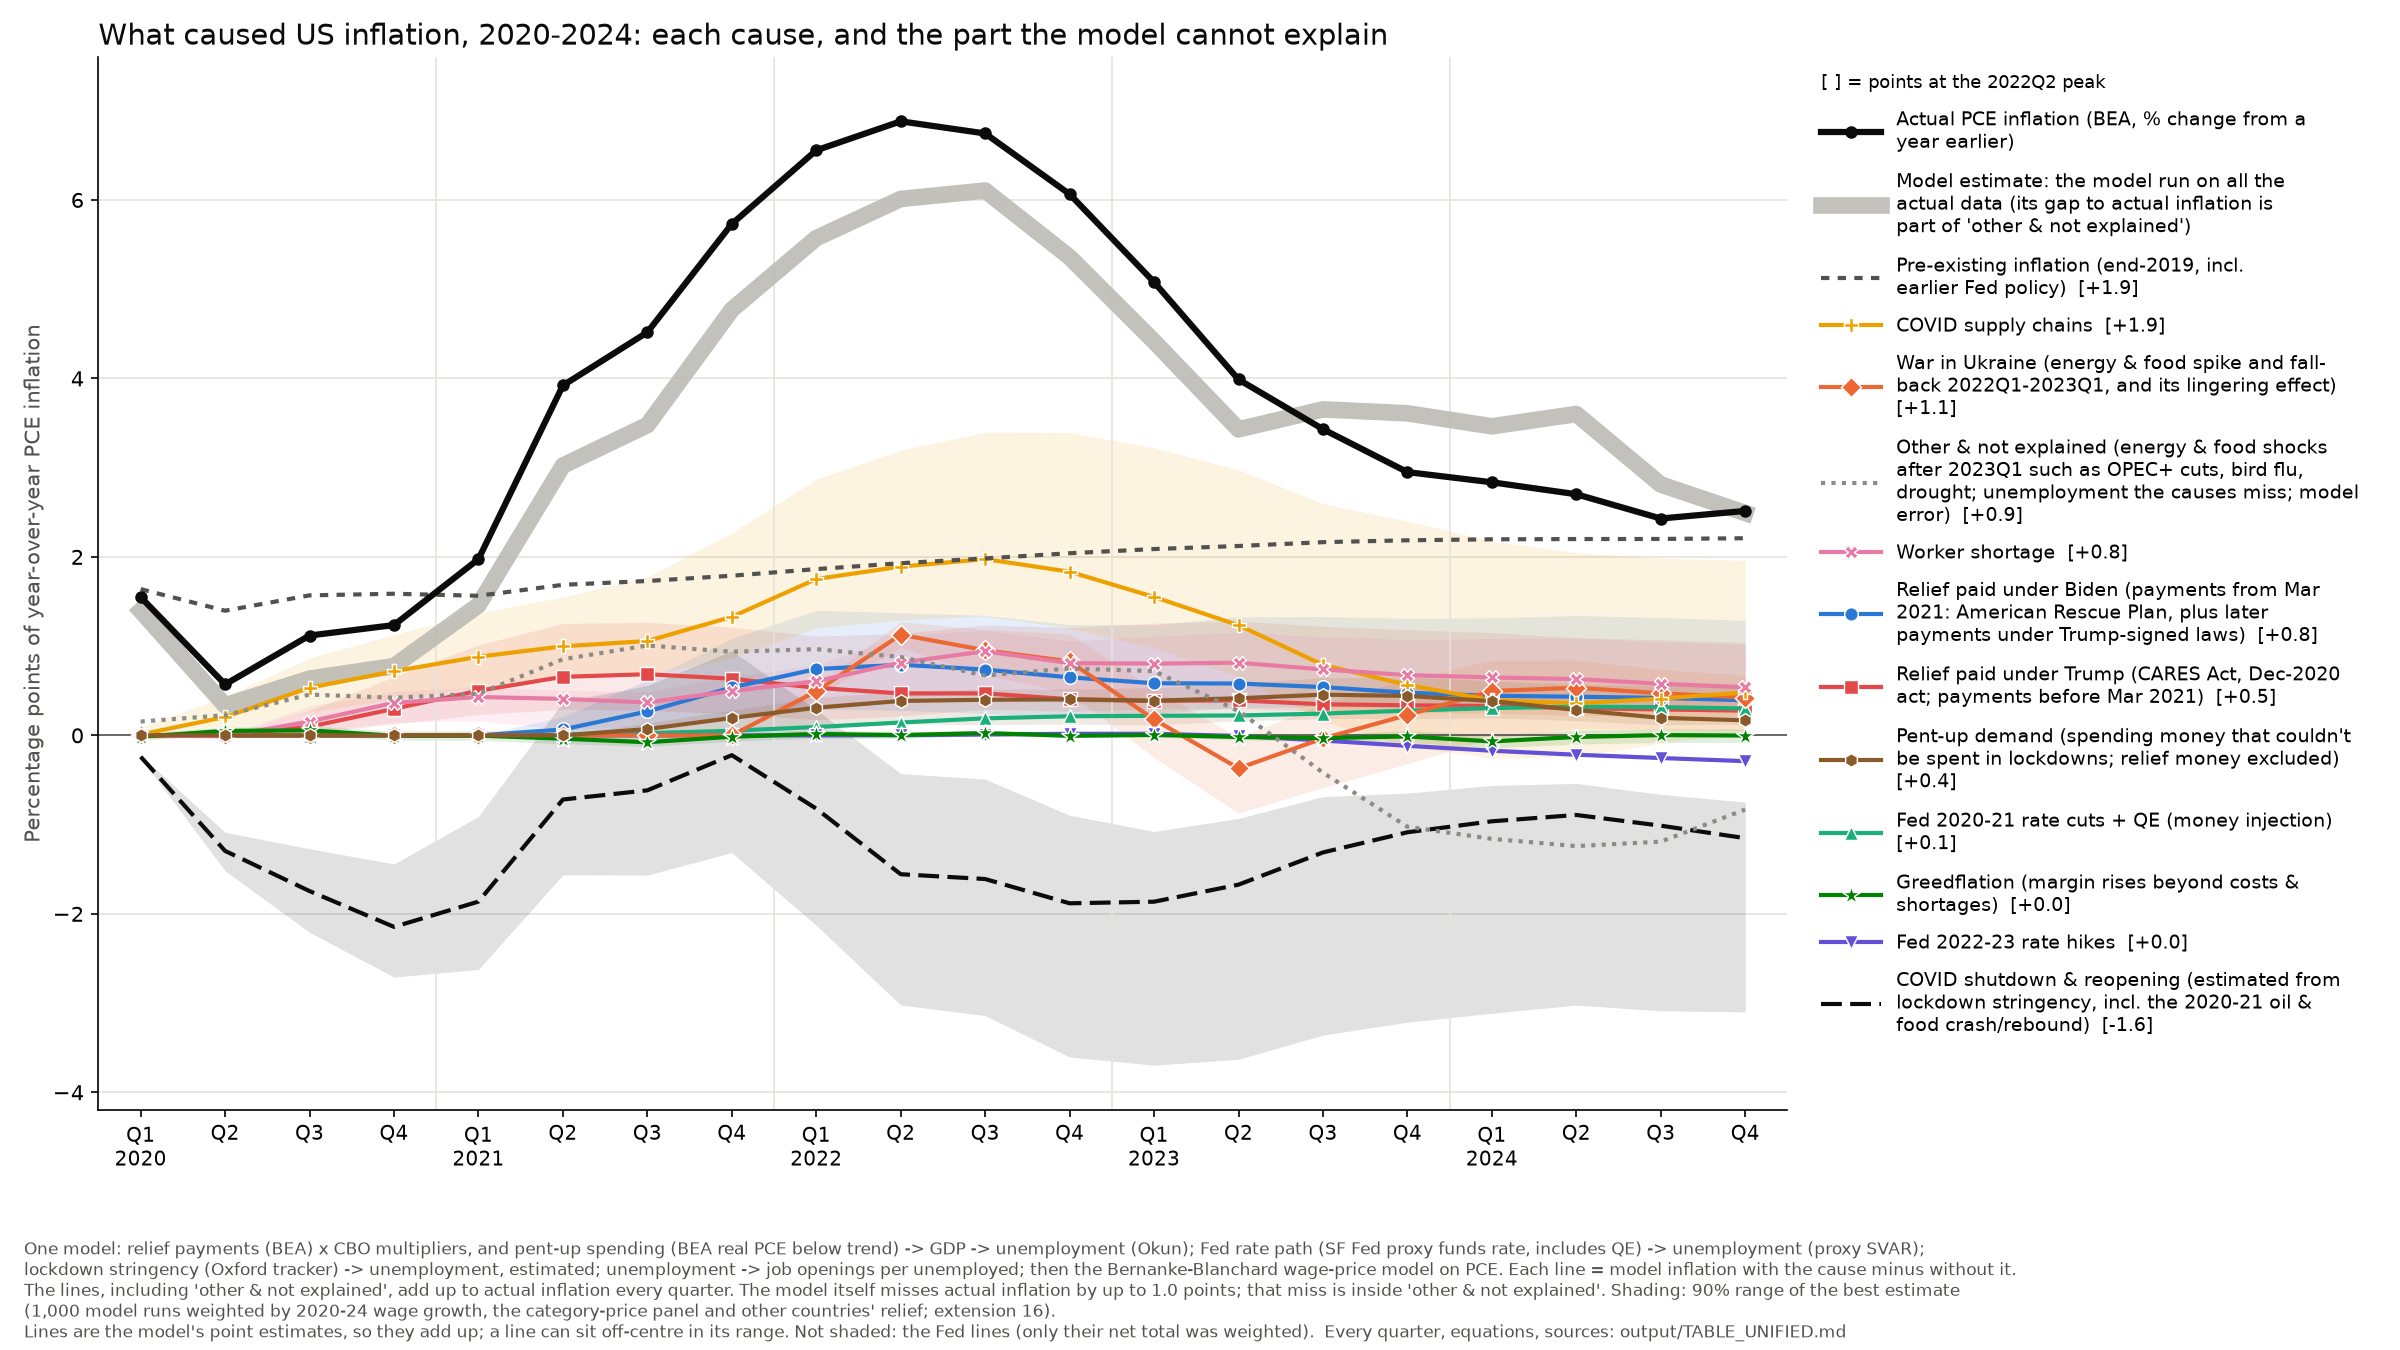
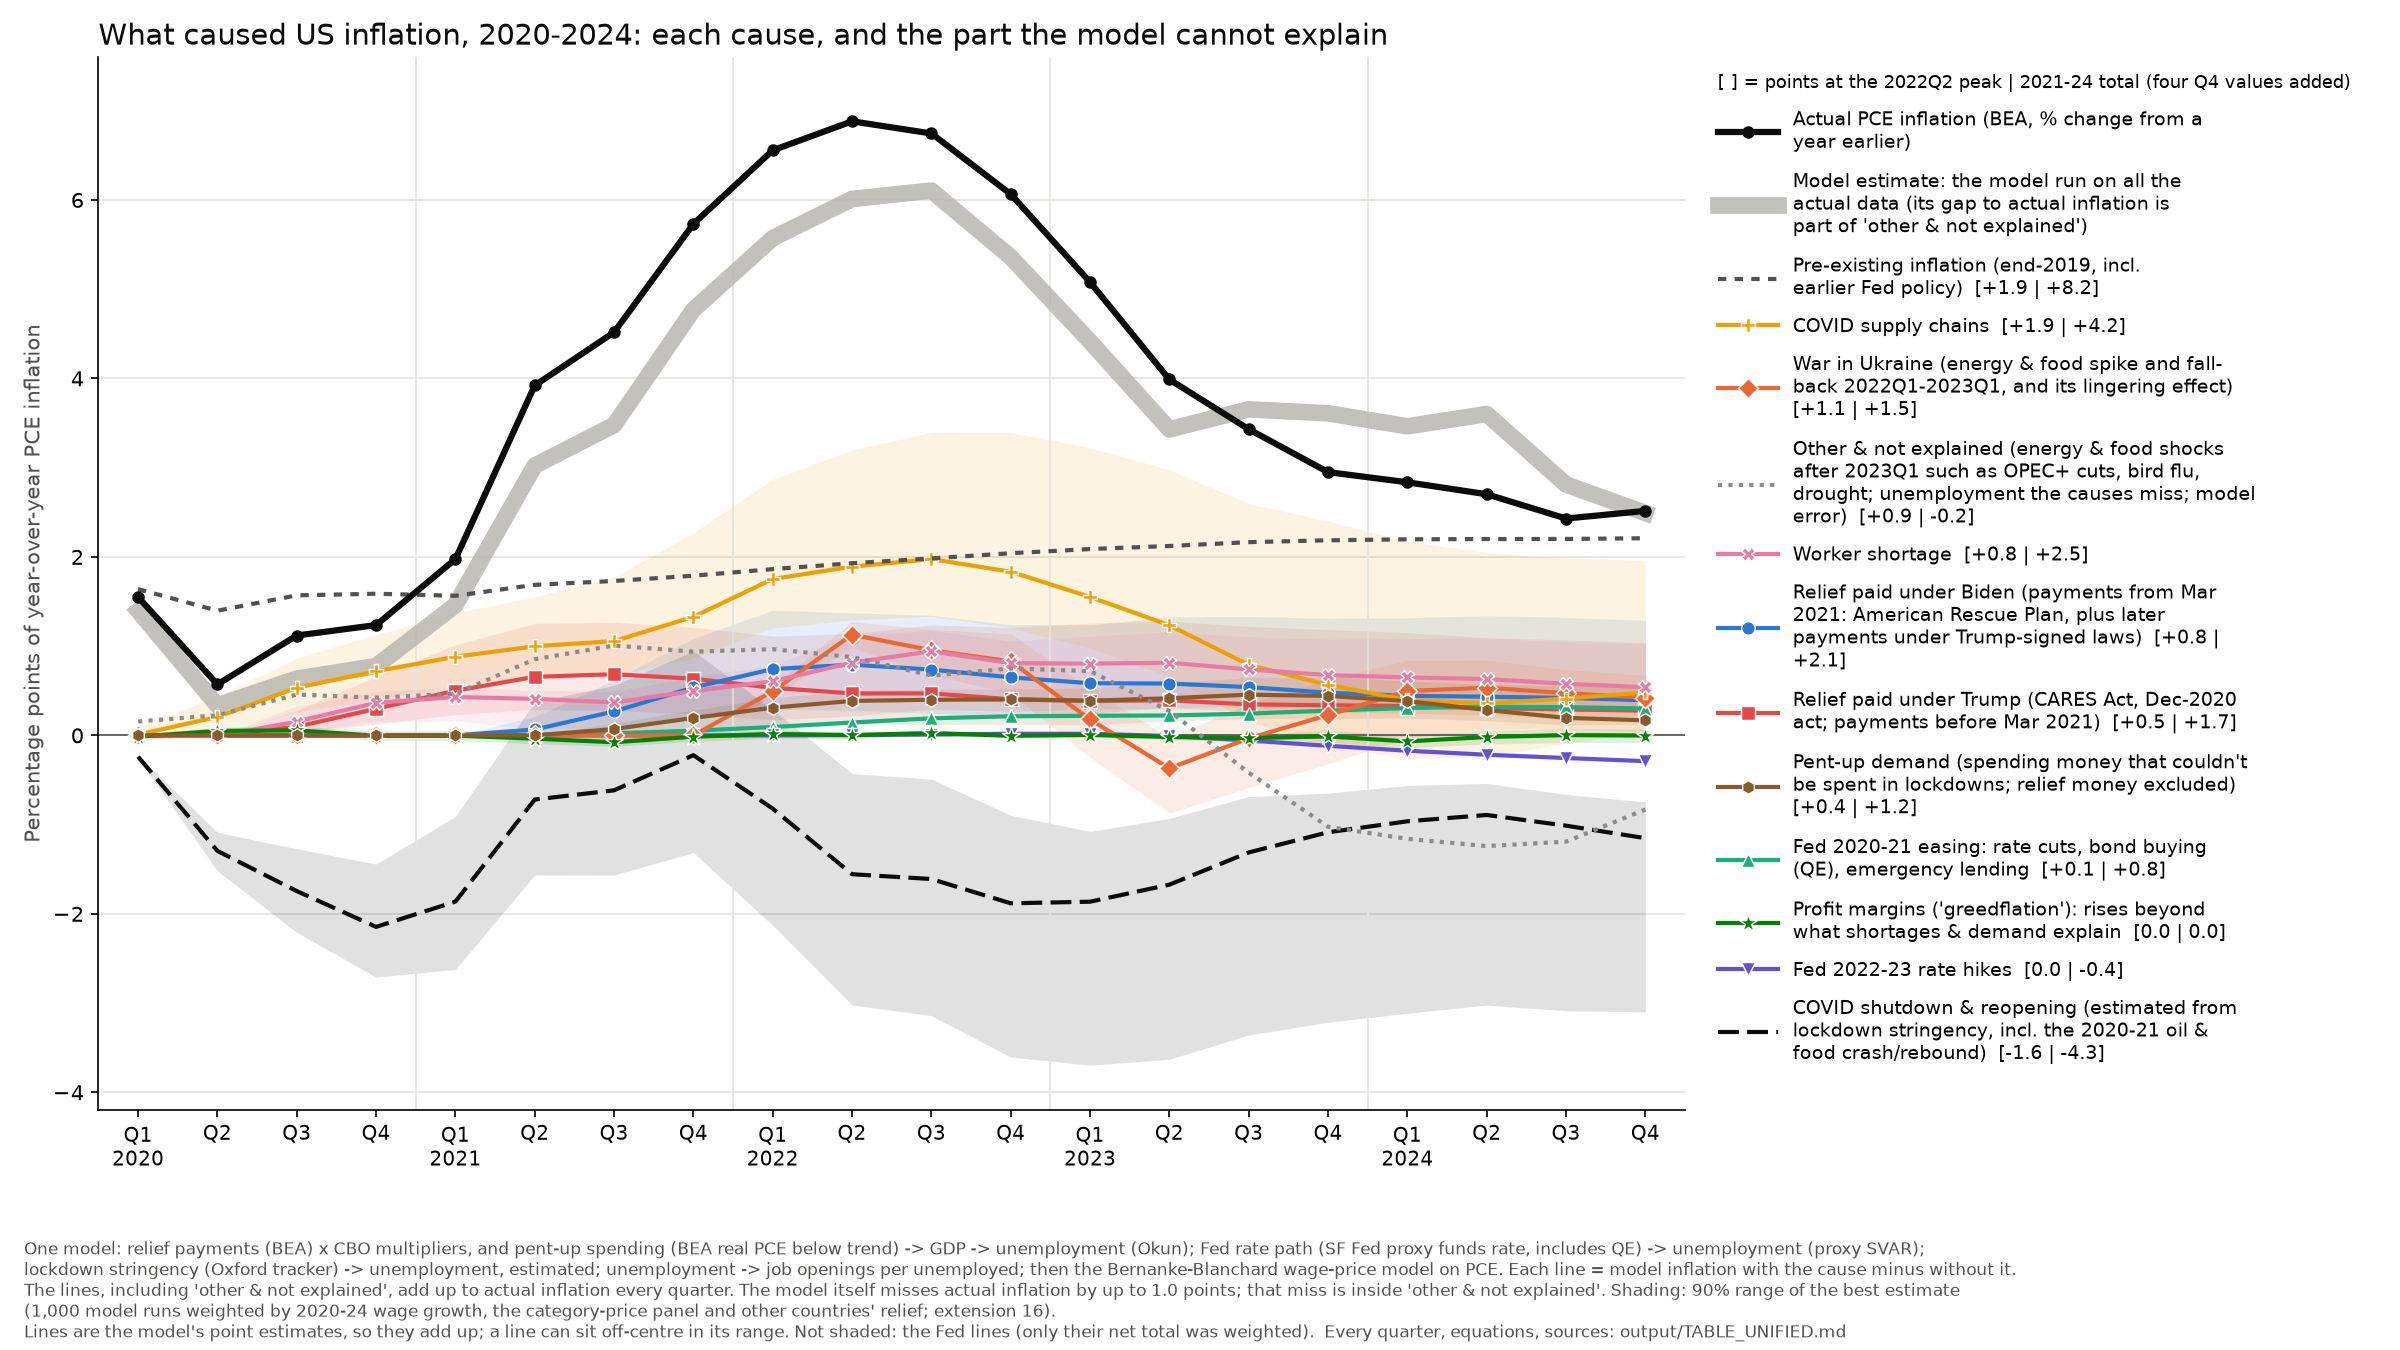
Chart legend: show 2022Q2 peak and 2021-24 total; rename Fed easing and profit-margin lines

diff --git a/src/make_unified_figure.py b/src/make_unified_figure.py
@@ -26,12 +26,12 @@ INK, MUTED, GRID = "#0b0b0b", "#52514e", "#e4e3df"
 LINES = [  # key, label, color, linestyle, marker, band
     ("trump", "Relief paid under Trump (CARES Act, Dec-2020 act; payments before Mar 2021)", "#e34948", "-", "s", True),
     ("biden", "Relief paid under Biden (payments from Mar 2021: American Rescue Plan, plus later payments under Trump-signed laws)", "#2a78d6", "-", "o", True),
-    ("fed_easing", "Fed 2020-21 rate cuts + QE (money injection)", "#1baf7a", "-", "^", False),
+    ("fed_easing", "Fed 2020-21 easing: rate cuts, bond buying (QE), emergency lending", "#1baf7a", "-", "^", False),
     ("fed_hikes", "Fed 2022-23 rate hikes", "#6250d6", "-", "v", False),
     ("energy_war", "War in Ukraine (energy & food spike and fall-back 2022Q1-2023Q1, and its lingering effect)", "#eb6834", "-", "D", True),
     ("shortage", "COVID supply chains", "#eda100", "-", "P", True),
     ("worker_shortage", "Worker shortage", "#e87ba4", "-", "X", BEST),
-    ("greed", "Greedflation (margin rises beyond costs & shortages)", "#008300", "-", "*", True),
+    ("greed", "Profit margins ('greedflation'): rises beyond what shortages & demand explain", "#008300", "-", "*", True),
     ("pentup", "Pent-up demand (spending money that couldn't be spent in lockdowns; relief money excluded)", "#8a5a2b", "-", "h", True),
     ("covid_other", "COVID shutdown & reopening (estimated from lockdown stringency, incl. the 2020-21 oil & food crash/rebound)",
      INK, (0, (5, 2)), None, BEST),
@@ -59,14 +59,16 @@ a.set_ylabel("Percentage points of year-over-year PCE inflation", color=MUTED)
 a.set_title("What caused US inflation, 2020-2024: each cause, and the part the model cannot explain",
             loc="left", fontsize=14, color=INK)
 # one legend, right of the plot; causes listed from largest to smallest at the 2022Q2 peak
+f1 = lambda v: "0.0" if round(v, 1) == 0 else f"{v:+.1f}"
+TOT = {r[0]: o.loc[[f'{y}Q4' for y in range(2021, 2025)], r[0]].sum() for r in LINES}
 order = sorted(LINES, key=lambda r: -o.loc["2022Q2", r[0]])
 hs = [h["actual"], h["sum"]] + [h[r[0]] for r in order]
 ls_ = ["Actual PCE inflation (BEA, % change from a year earlier)", "Model estimate: the model run on all the actual data (its gap to actual inflation is part of 'other & not explained')"] + \
-      [f"{r[1]}  [{o.loc['2022Q2', r[0]]:+.1f}]" for r in order]
+      [f"{r[1]}  [{f1(o.loc['2022Q2', r[0]])} | {f1(TOT[r[0]])}]" for r in order]
 import textwrap
 ls_ = ["\n".join(textwrap.wrap(t, 46)) for t in ls_]
 a.legend(hs, ls_, loc="upper left", bbox_to_anchor=(1.01, 1.0), fontsize=9, frameon=False, labelspacing=.9,
-         title="[ ] = points at the 2022Q2 peak", title_fontsize=8.5, alignment="left", handlelength=3.2)
+         title="[ ] = points at the 2022Q2 peak | 2021-24 total (four Q4 values added)", title_fontsize=8.5, alignment="left", handlelength=3.2)
 rg = lambda k, qq: f"{o.loc[qq, k + '_lo']:+.1f} to {o.loc[qq, k + '_hi']:+.1f}"
 fig.text(.01, .005,
          "One model: relief payments (BEA) x CBO multipliers, and pent-up spending (BEA real PCE below trend) -> GDP -> unemployment (Okun); Fed rate path (SF Fed proxy funds rate, "
